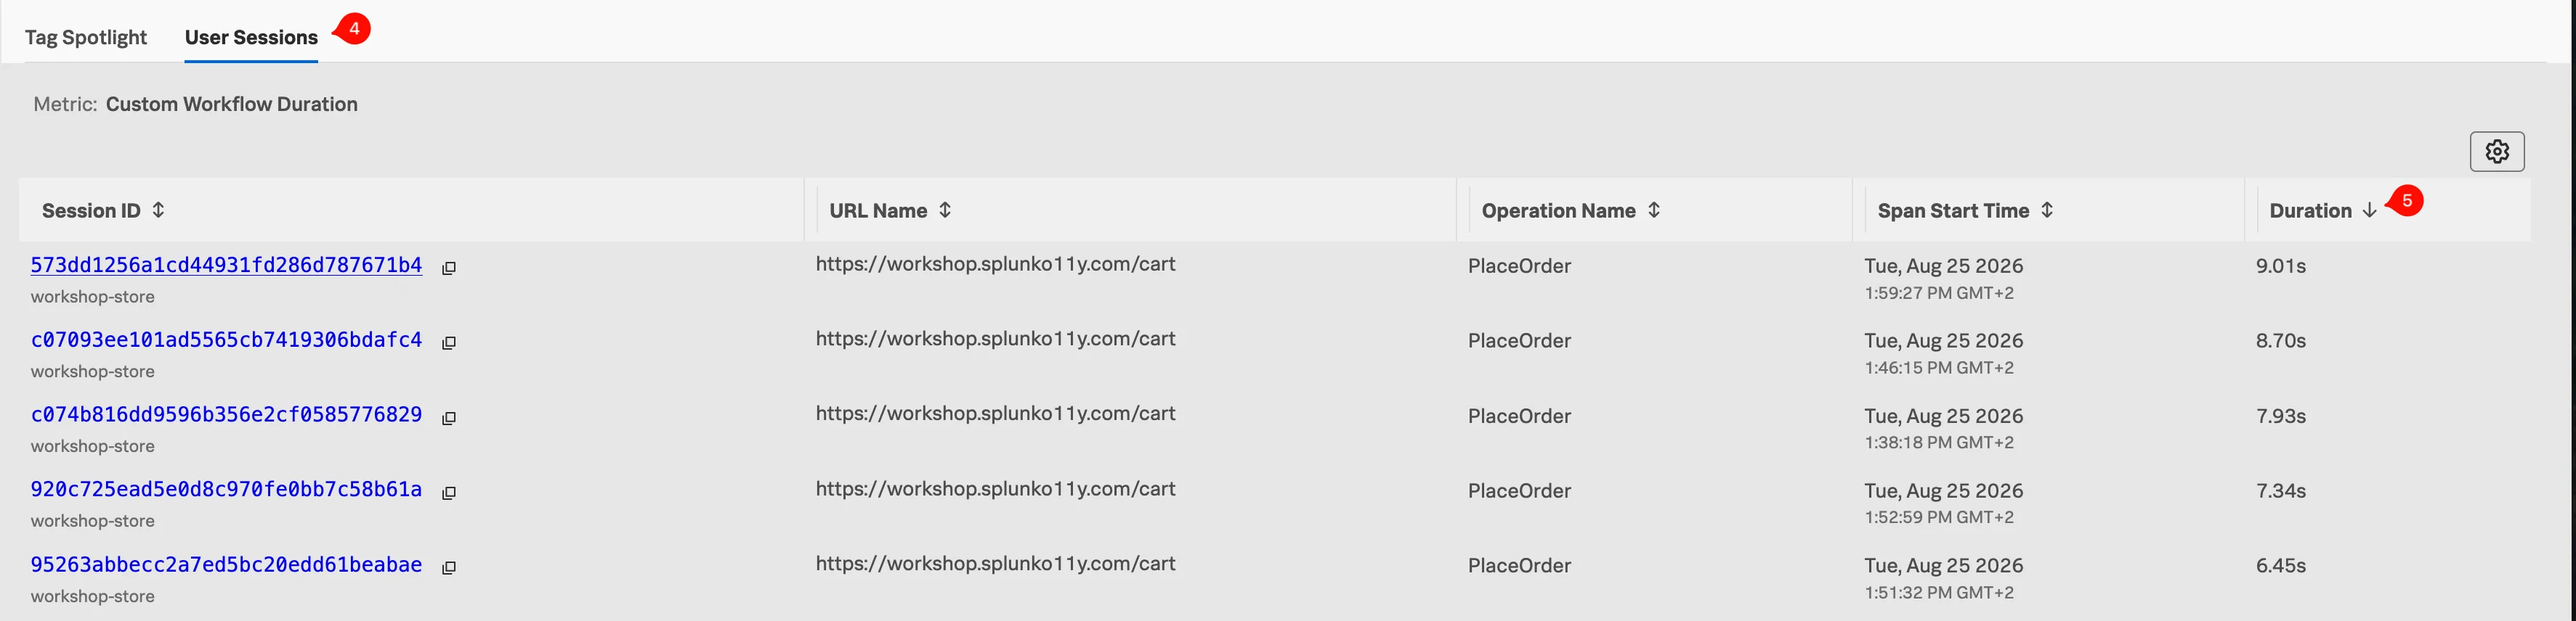
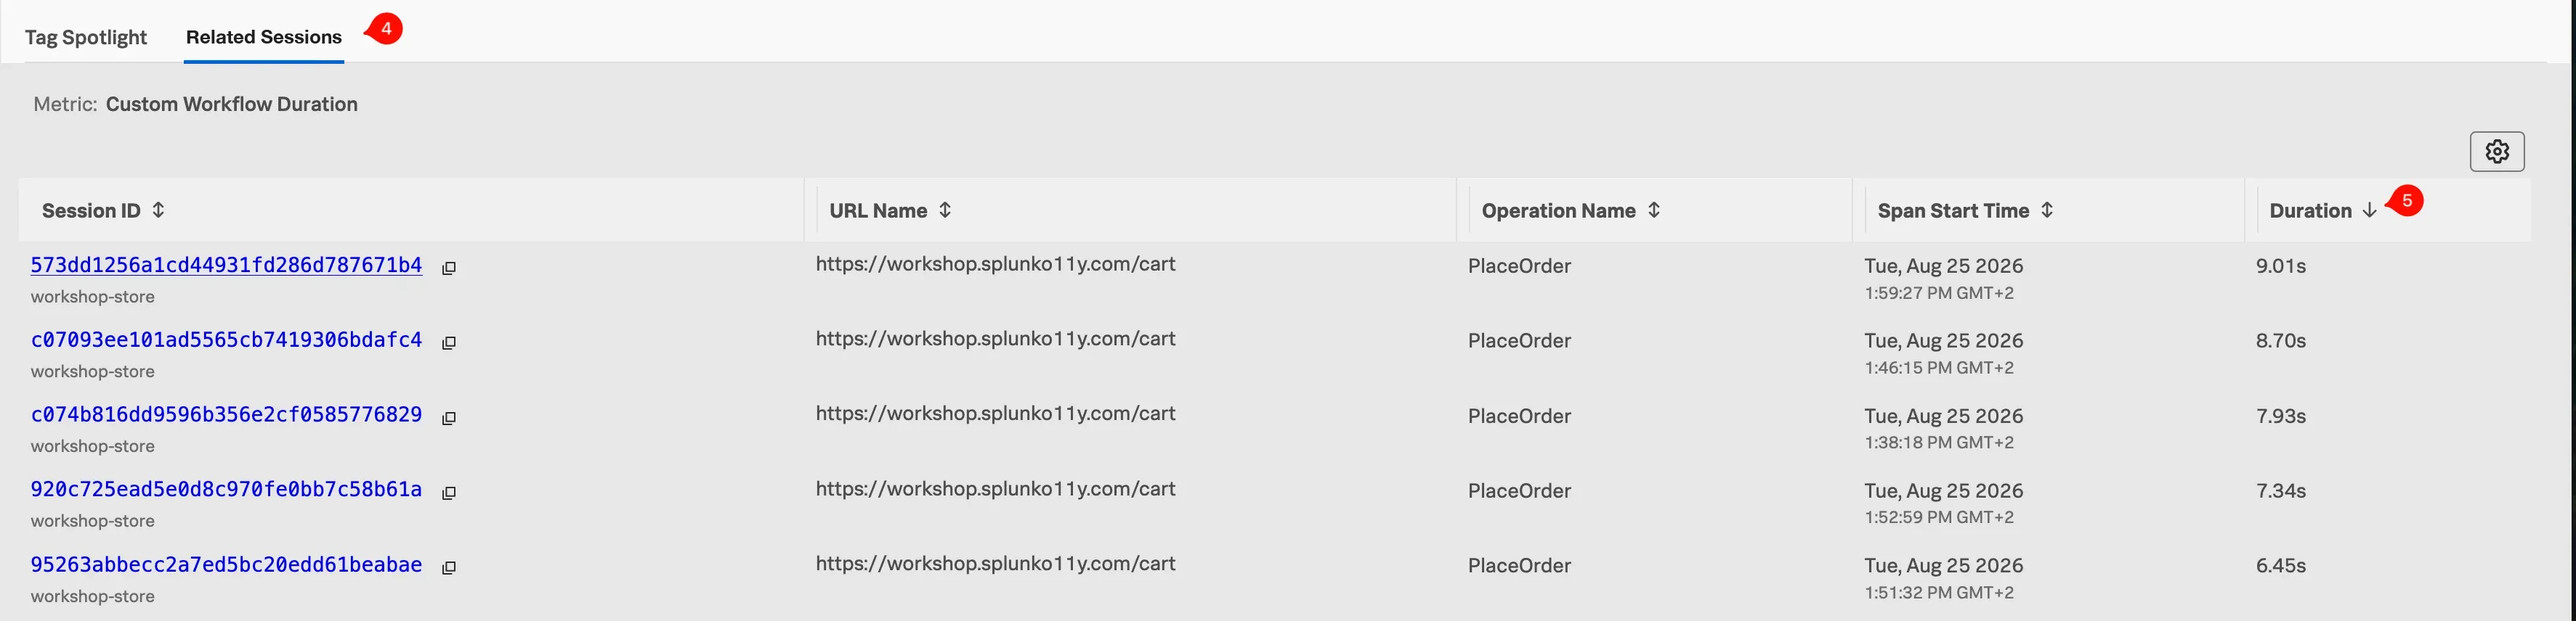
Update rookies 2027 intro and RUM session pages (#917)
Note Cloud Control vs Observability headers in the intro, retitle User
Sessions to Related Sessions, and follow a slow PlaceOrder into APM.

Changed region(s): [[0.062, 0.0, 0.1551, 0.0911], [0.031, 0.4252, 0.1241, 0.4556]]

diff --git a/content/en/splunk4rookies/observability-cloud-2027/modules/1-intro/3-rum/5-related-user-sessions.md b/content/en/splunk4rookies/observability-cloud-2027/modules/1-intro/3-rum/5-related-user-sessions.md
@@ -1,0 +1,52 @@
+---
+title: 5. Related Sessions
+weight: 5
+---
+
+A **Related Session** or **User Session** represents one person’s activity in the application during a particular visit. Each session has a unique Session ID and contains a chronological timeline of the events captured by RUM. 
+
+The session view brings browser activity together in one place, including page visits, clicks, form submissions, custom workflows, JavaScript errors, network requests, and performance events. At the top of the page, the Session Timeline summarizes when these events occurred. The detailed list below shows their order, duration, and status.
+
+This view helps you move from an application-wide performance problem to the experience of an individual user. You can see what the user did, where delays or errors occurred, and—when a network request is connected to an APM trace—continue the investigation into the backend services that processed it.
+
+{{< notice >}}
+The session page may also provide a **Session Replay** option, which visually recreates the user’s interaction with the application. Session Replay is not covered in this exercise. Here, you’ll focus on the event timeline and use it to follow a slow checkout request from RUM into APM. 
+{{< /notice >}}
+
+{{% exercise title="Investigate a Slow PlaceOrder Interaction" %}}
+
+In the previous exercise you filtered RUM data to **PlaceOrder** and sorted **Related Sessions** by duration. Now open one of those slow sessions and follow the checkout from the browser into APM.
+
+* In the **Related Sessions** table, select the **Session ID** with the longest **PlaceOrder** duration. Prefer a session longer than **6 seconds**. If none are that slow, pick the longest one in the list. Your times may differ from the screenshots.
+
+The session page opens. The top of the page may show **Session Replay**, a video of the user’s visit. You do not need it for this exercise.
+
+* Scroll down until you see the **Navigation** waterfall **(1)**. This timeline lists the pages, custom events, and network requests from that visit.
+
+If the waterfall is long and hard to scan, keep only the events that matter for checkout:
+
+* Open the **Category** filter **(2)**.
+* Select **Custom** and **Network** **(3)**. Leave the other categories unchecked.
+
+**Custom** includes workflows such as **PlaceOrder**. **Network** includes the HTTP requests the browser made, including checkout.
+
+![RUM session flow](../images/rum-user-session-flow.webp)
+
+* Locate the *PlaceOrder* custom section.
+* Review its **duration**. The length of the bar shows how long the workflow took to complete. A long bar confirms that this user experienced a slow checkout interaction.
+* Near the *PlaceOrder* Custom Event, locate the **Fetch (1)** event for the checkout request. Depending on the order of events in your session, it may appear immediately above or below *PlaceOrder*.  
+It should start with:
+  `POST https://<your-store>/api/checkout`.
+
+![RUM Session](../images/rum-waterfall-place-order.webp)
+
+* Check the request’s status code. An *HTTP status code* of **500** indicates that the backend encountered an error while processing the request.
+* Select the blue **APM** link **(2)** and wait for the performance summary pane to appear. This summary connects the browser request to the backend trace that processed it.
+
+![RUM Session](../images/rum-performance.webp)
+
+* Review the services shown at the bottom of the summary. A red error indicator identifies a service containing one or more errors. In this example, errors are associated with services such as *checkout* or *payment* **(3)**. The exact services and order may differ in your session. 
+
+* Select the **Business Operation** (also called a business workflow) by clicking the blue link **(4)**. The name may be `PlaceOrder`, `checkout:oteldemo.CheckoutService/PlaceOrder`, or another label used in your environment — click the blue text next to **Business Operation**. This opens the APM Service Map, where you will investigate the backend services and their dependencies.
+
+{{% /exercise %}}

diff --git a/content/en/splunk4rookies/observability-cloud-2027/modules/1-intro/3-rum/4-tag-spotlight.md b/content/en/splunk4rookies/observability-cloud-2027/modules/1-intro/3-rum/4-tag-spotlight.md
@@ -9,7 +9,7 @@ The panels show the most common values for each tag and their associated perform
 
 {{% exercise title="Find slow PlaceOrder sessions" %}}
 
-In this exercise, you’ll use **Tag Spotlight** to focus on the **PlaceOrder** workflow. You’ll then open the matching user sessions and sort them to find the slowest interactions.
+In this exercise, you’ll use **Tag Spotlight** to focus on the **PlaceOrder** workflow. You’ll then open **Related Sessions** and sort them to find the slowest interactions.
 
 ![RUM Tag Spotlight](../images/rum-tag-spotlight.webp)
 
@@ -17,12 +17,13 @@ In this exercise, you’ll use **Tag Spotlight** to focus on the **PlaceOrder** 
 
 * Find the **Custom Workflow Name** chart, locate **PlaceOrder** in the list **(2)**, click on it and select **Add to filter** **(3)** in the popup window to apply the filter to the page.
 * Confirm that the **PlaceOrder** filter appears at the end of the filter pane at the top of the page **(1)**.  
-The charts and results now focus on interactions associated with this workflow.
-* Select the **User Sessions** tab (4).
-* Select the **Duration** column heading (5) until the longest durations appear at the top. A *downward arrow* indicates that the results are sorted from longest to shortest.
+The charts and results now focus on interactions associated with this workflow. The **Related Sessions** tab is next to **Tag Spotlight**.
 
-* You now have a list of **sessions** containing the **PlaceOrder** workflow, with the slowest interactions shown first. The results were narrowed using the PlaceOrder tag before you opened the User Sessions tab. We could apply more filters to further narrow down the data, e.g. *OS version*, *browser version*, etc.
+![RUM Related Sessions](../images/rum-user-sessions.webp)
 
-![RUM Tag Spotlight](../images/rum-user-sessions.webp)
+* Select the **Related Sessions** tab **(4)**.
+* Select the **Duration** column heading **(5)** until the longest durations appear at the top. A *downward arrow* indicates that the results are sorted from longest to shortest.
+
+* You now have a list of **Related Sessions** containing the **PlaceOrder** workflow, with the slowest interactions shown first. The results were narrowed using the PlaceOrder tag before you opened the **Related Sessions** tab. We could apply more filters to further narrow down the data, e.g. *OS version*, *browser version*, etc.
 
 {{% /exercise %}}

diff --git a/content/en/splunk4rookies/observability-cloud-2027/modules/1-intro/_index.md b/content/en/splunk4rookies/observability-cloud-2027/modules/1-intro/_index.md
@@ -28,6 +28,22 @@ This ensures that approximately half of the payment requests fail, producing the
 
 Gain hands-on experience troubleshooting issues using Splunk Observability Cloud. You'll work with a fully instrumented microservices application — the **Astronomy Shop** — running on Kubernetes and sending metrics, traces, and logs for real-time analysis.
 
+{{% notice title="Note" style="info" %}}
+Depending on where this workshop is run, the headers for the Splunk Observability suite may look different:
+
+<div style="display:flex; gap:1.5rem; align-items:center; flex-wrap:wrap;">
+<div>
+
+* **Cisco Cloud Control** — a light (white) header
+* **Splunk Observability Cloud** — a dark header
+
+</div>
+<img src="images/headers.webp" alt="Cisco Cloud Control and Splunk Observability headers" style="max-width:320px; width:100%; height:auto;">
+</div>
+
+Use the left navigation and page titles to follow the steps. Ignore header color differences between your screen and the screenshots — this does not impact the workshop.
+{{% /notice %}}
+
 <!-- Along the classic troubleshooting path you'll also meet the newest members of the platform: the **AI Assistant** and the **AI Troubleshooting Agent**, which turn plain-English questions and firing alerts into evidence-backed root cause analysis. -->
 
 ## Workshop Overview
